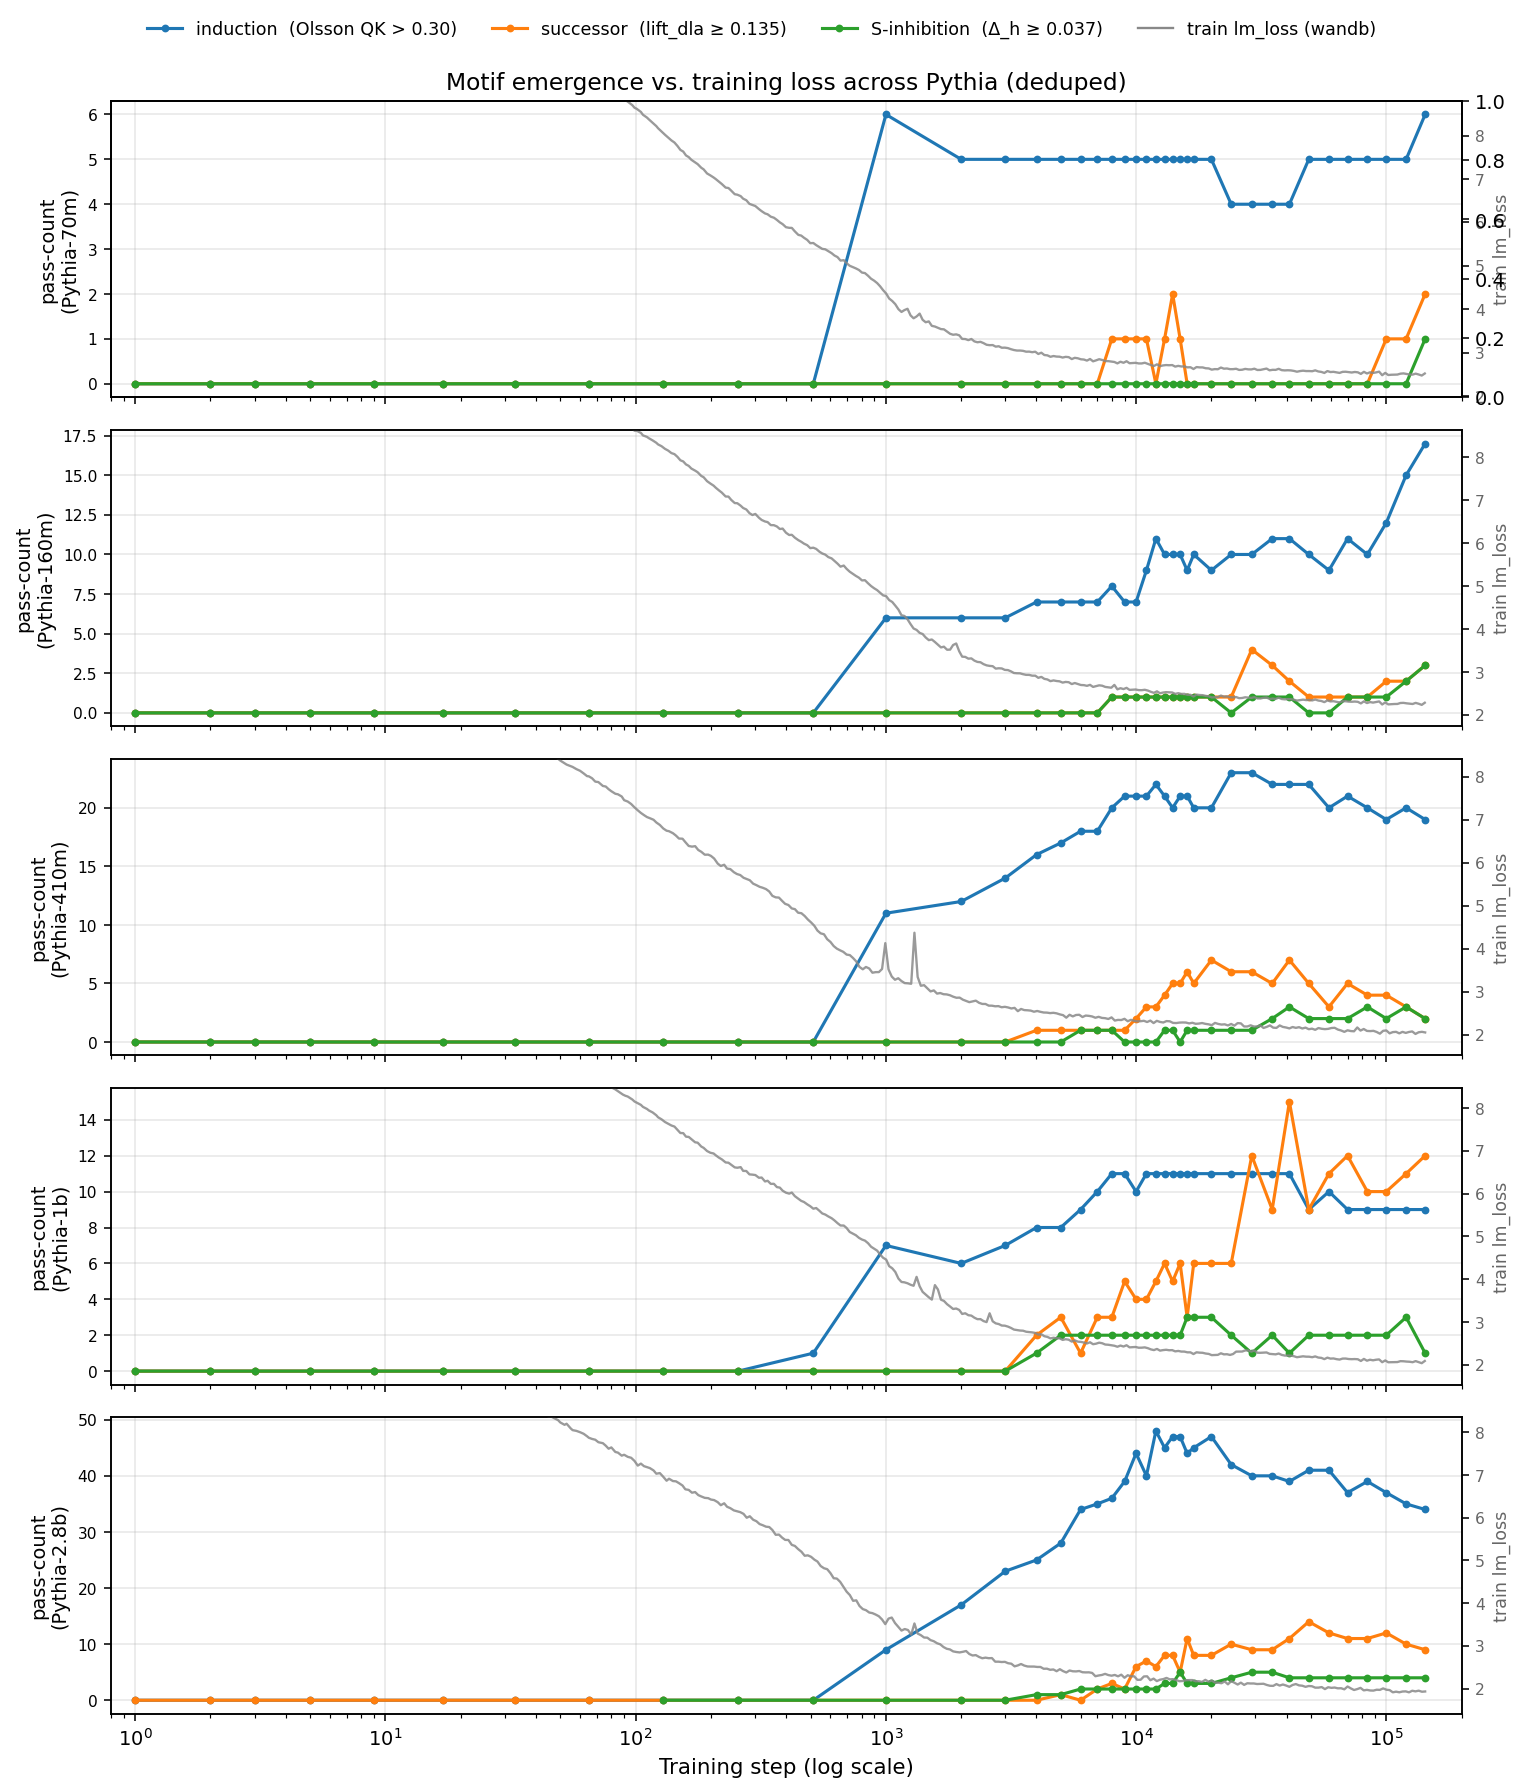
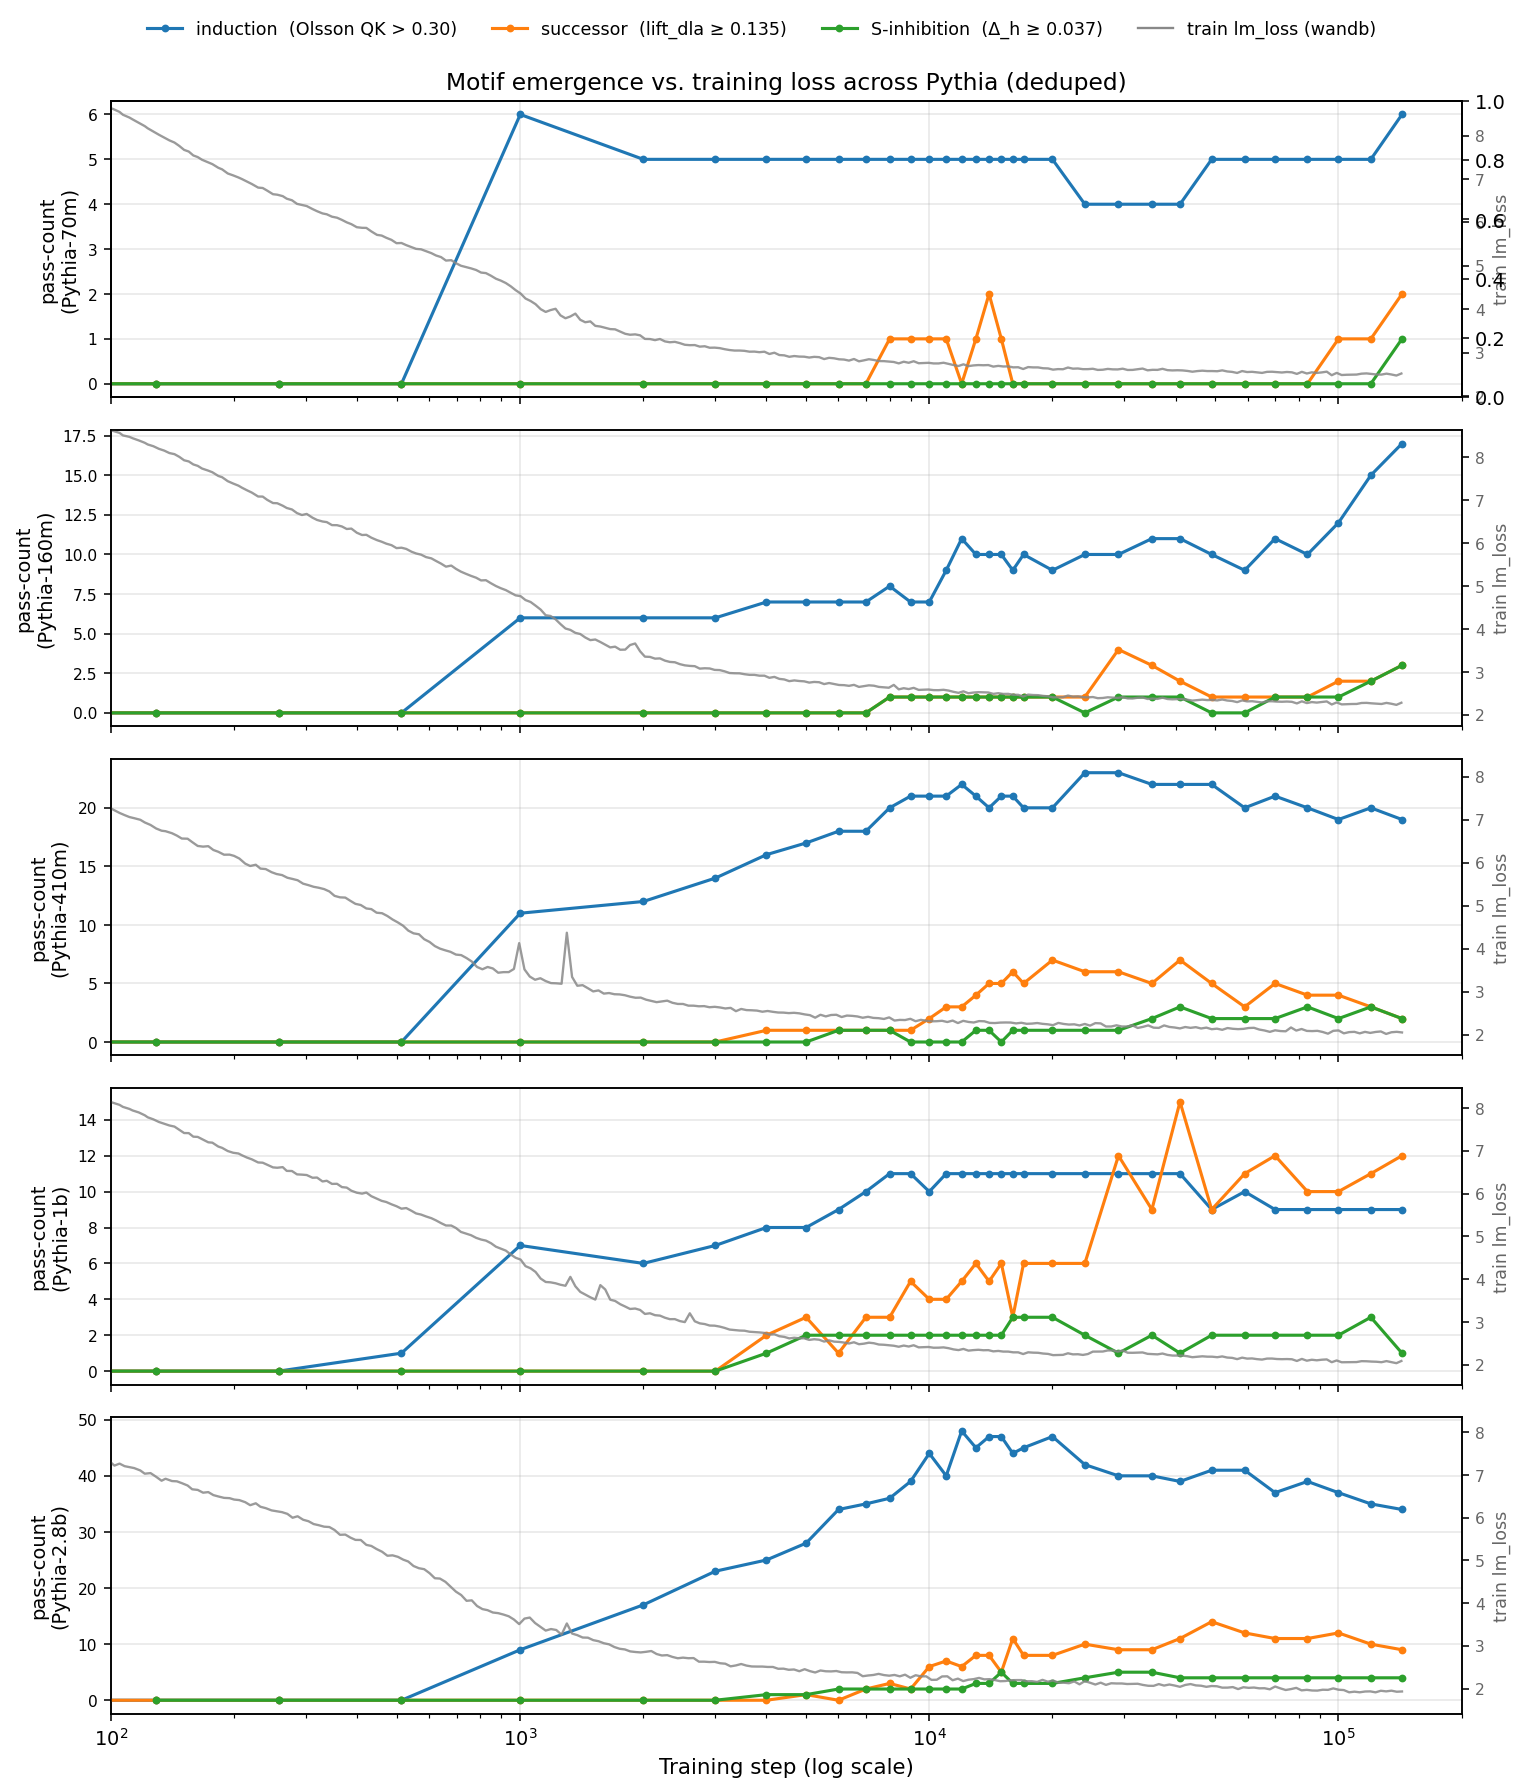
F6 figure: tighten x-axis to start at step 100 (drop noisy early-log range)

diff --git a/notebooks/_build_loss_vs_emergence_figure.py b/notebooks/_build_loss_vs_emergence_figure.py
@@ -161,7 +161,7 @@ def main() -> None:
         ax.set_ylabel(f"pass-count\n(Pythia-{size})", fontsize=10)
         ax.tick_params(axis="y", labelsize=8)
         ax.set_xscale("log")
-        ax.set_xlim(0.8, 200_000)
+        ax.set_xlim(100, 200_000)
         ax.grid(True, alpha=0.3, zorder=0)
         ax.set_axisbelow(True)
 
